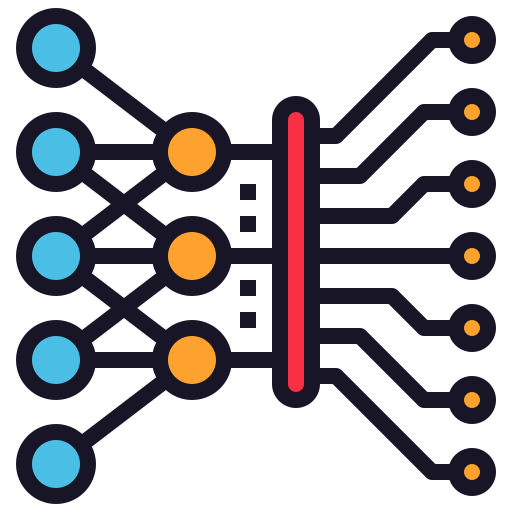
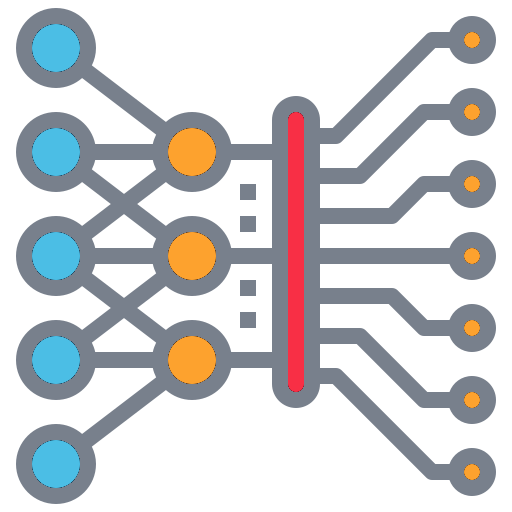
Bump the tutorials to the cohort tutorial
cohort.ipynb replaces cohort_tracking and imputation_nb in the gallery, the thumbnails and the notebook CI; imputation_nb stays in the tutorials repository unrendered and is linked from the cohort tutorial.
The dead notebooks removed in ehrapy-tutorials#76 lose their gallery entries and thumbnails, and their old URLs as well as those of cohort_tracking and imputation_nb redirect.
The longitudinal thumbnail pointed at a missing file and prediction had none; the machine learning icon got lighter strokes so it stays visible on the dark theme.

Changed region(s): [[0.0312, 0.0, 0.9688, 1.0]]

diff --git a/docs/conf.py b/docs/conf.py
@@ -72,12 +72,20 @@ exclude_patterns = [
     "auto_*/**.py",
     "**.ipynb_checkpoints",
     "tutorials/notebooks/README.md",
-    "tutorials/notebooks/diabetic_retinopathy_fate_mapping.ipynb",
+    "tutorials/notebooks/imputation_nb.ipynb",
 ]
 redirects = {
-    f"tutorials/notebooks/{name}": "../index.html"
-    for name in ("fhir", "out_of_core", "patient_trajectory", "ontology_mapping", "diabetic_retinopathy_fate_mapping")
-    if not (HERE / "tutorials" / "notebooks" / f"{name}.ipynb").exists()
+    **{
+        f"tutorials/notebooks/{name}": "../index.html"
+        for name in (
+            "fhir",
+            "out_of_core",
+            "patient_trajectory",
+            "ontology_mapping",
+            "diabetic_retinopathy_fate_mapping",
+        )
+    },
+    **{f"tutorials/notebooks/{name}": "cohort.html" for name in ("cohort_tracking", "imputation_nb")},
 }
 
 nbsphinx_execute = "never"
@@ -184,13 +192,10 @@ nbsphinx_thumbnails = {
     "tutorials/notebooks/mimic_2_survival_analysis": "_static/tutorials/survival.png",
     "tutorials/notebooks/mimic_2_effect_estimation": "_static/tutorials/effect_estimation.png",
     "tutorials/notebooks/mimic_2_causal_inference": "_static/tutorials/causal_inference.png",
-    "tutorials/notebooks/ontology_mapping": "_static/tutorials/ontology.png",
-    "tutorials/notebooks/fhir": "_static/tutorials/fhir.png",
-    "tutorials/notebooks/cohort_tracking": "_static/tutorials/cohort_tracking.png",
+    "tutorials/notebooks/cohort": "_static/tutorials/cohort_tracking.png",
     "tutorials/notebooks/bias": "_static/tutorials/bias.png",
-    "tutorials/notebooks/out_of_core": "_static/tutorials/out_of_core.png",
-    "tutorials/notebooks/patient_trajectory": "_static/tutorials/patient_trajectory.png",
-    "tutorials/notebooks/longitudinal_with_ehrapy": "_static/tutorials/longitudinal.png",
+    "tutorials/notebooks/longitudinal_with_ehrapy": "_static/tutorials/longitudinal_with_ehrapy.png",
+    "tutorials/notebooks/prediction": "_static/tutorials/machine_learning.png",
 }
 
 

diff --git a/docs/tutorials/index.md b/docs/tutorials/index.md
@@ -24,13 +24,8 @@ For questions about the usage of ehrapy use the [zulip forum](https://scverse.zu
    notebooks/mimic_2_causal_inference
    notebooks/longitudinal_with_ehrapy
    notebooks/prediction
-   notebooks/ontology_mapping
-   notebooks/fhir
-   notebooks/cohort_tracking
+   notebooks/cohort
    notebooks/bias
-   notebooks/out_of_core
-   notebooks/patient_trajectory
-   notebooks/imputation_nb
 
 ```
 
